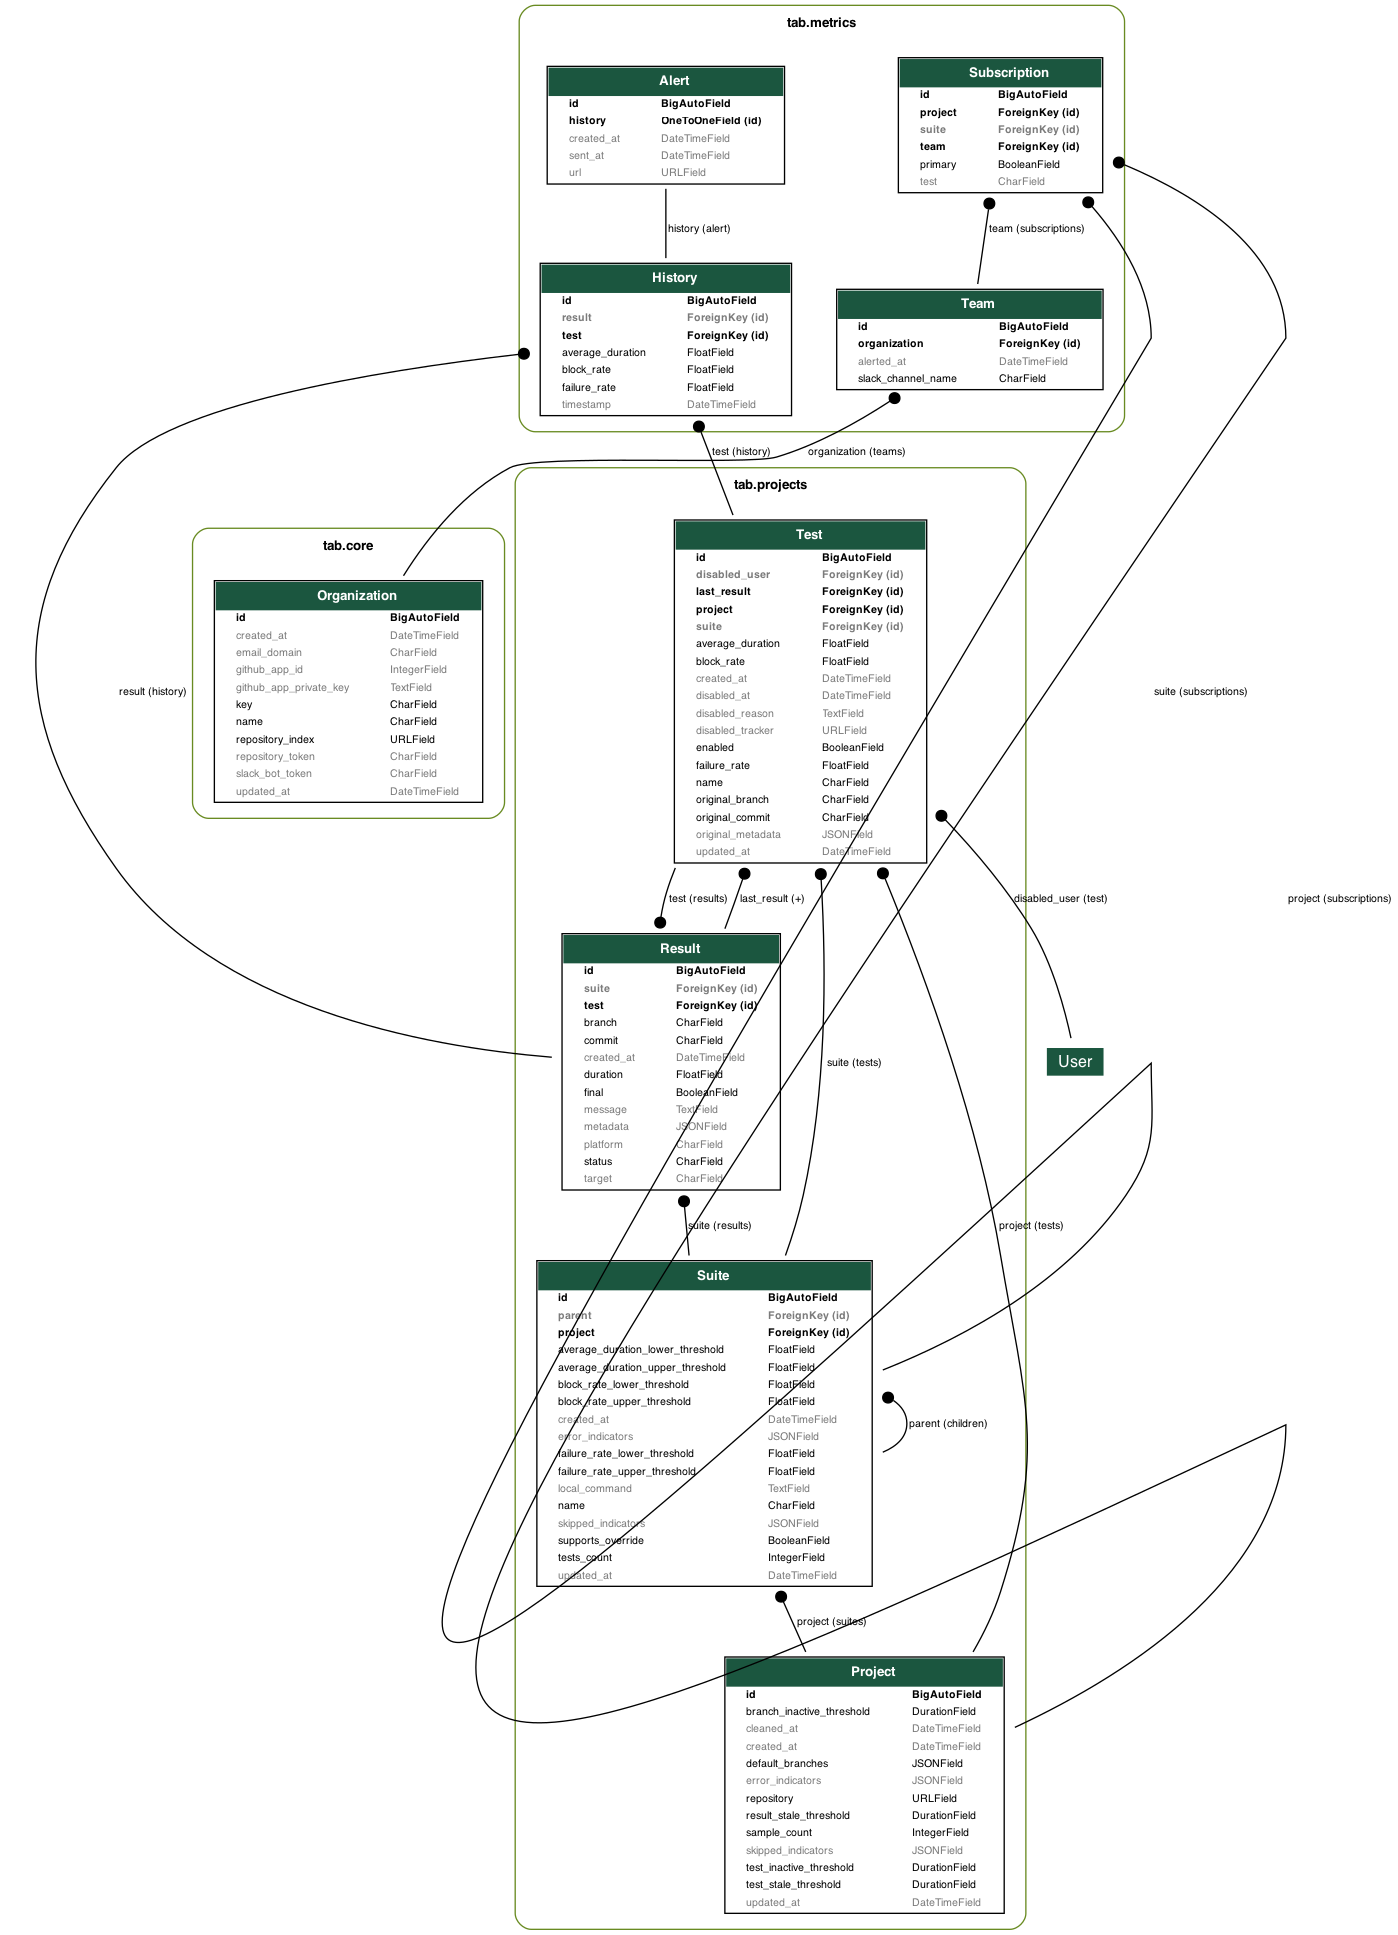
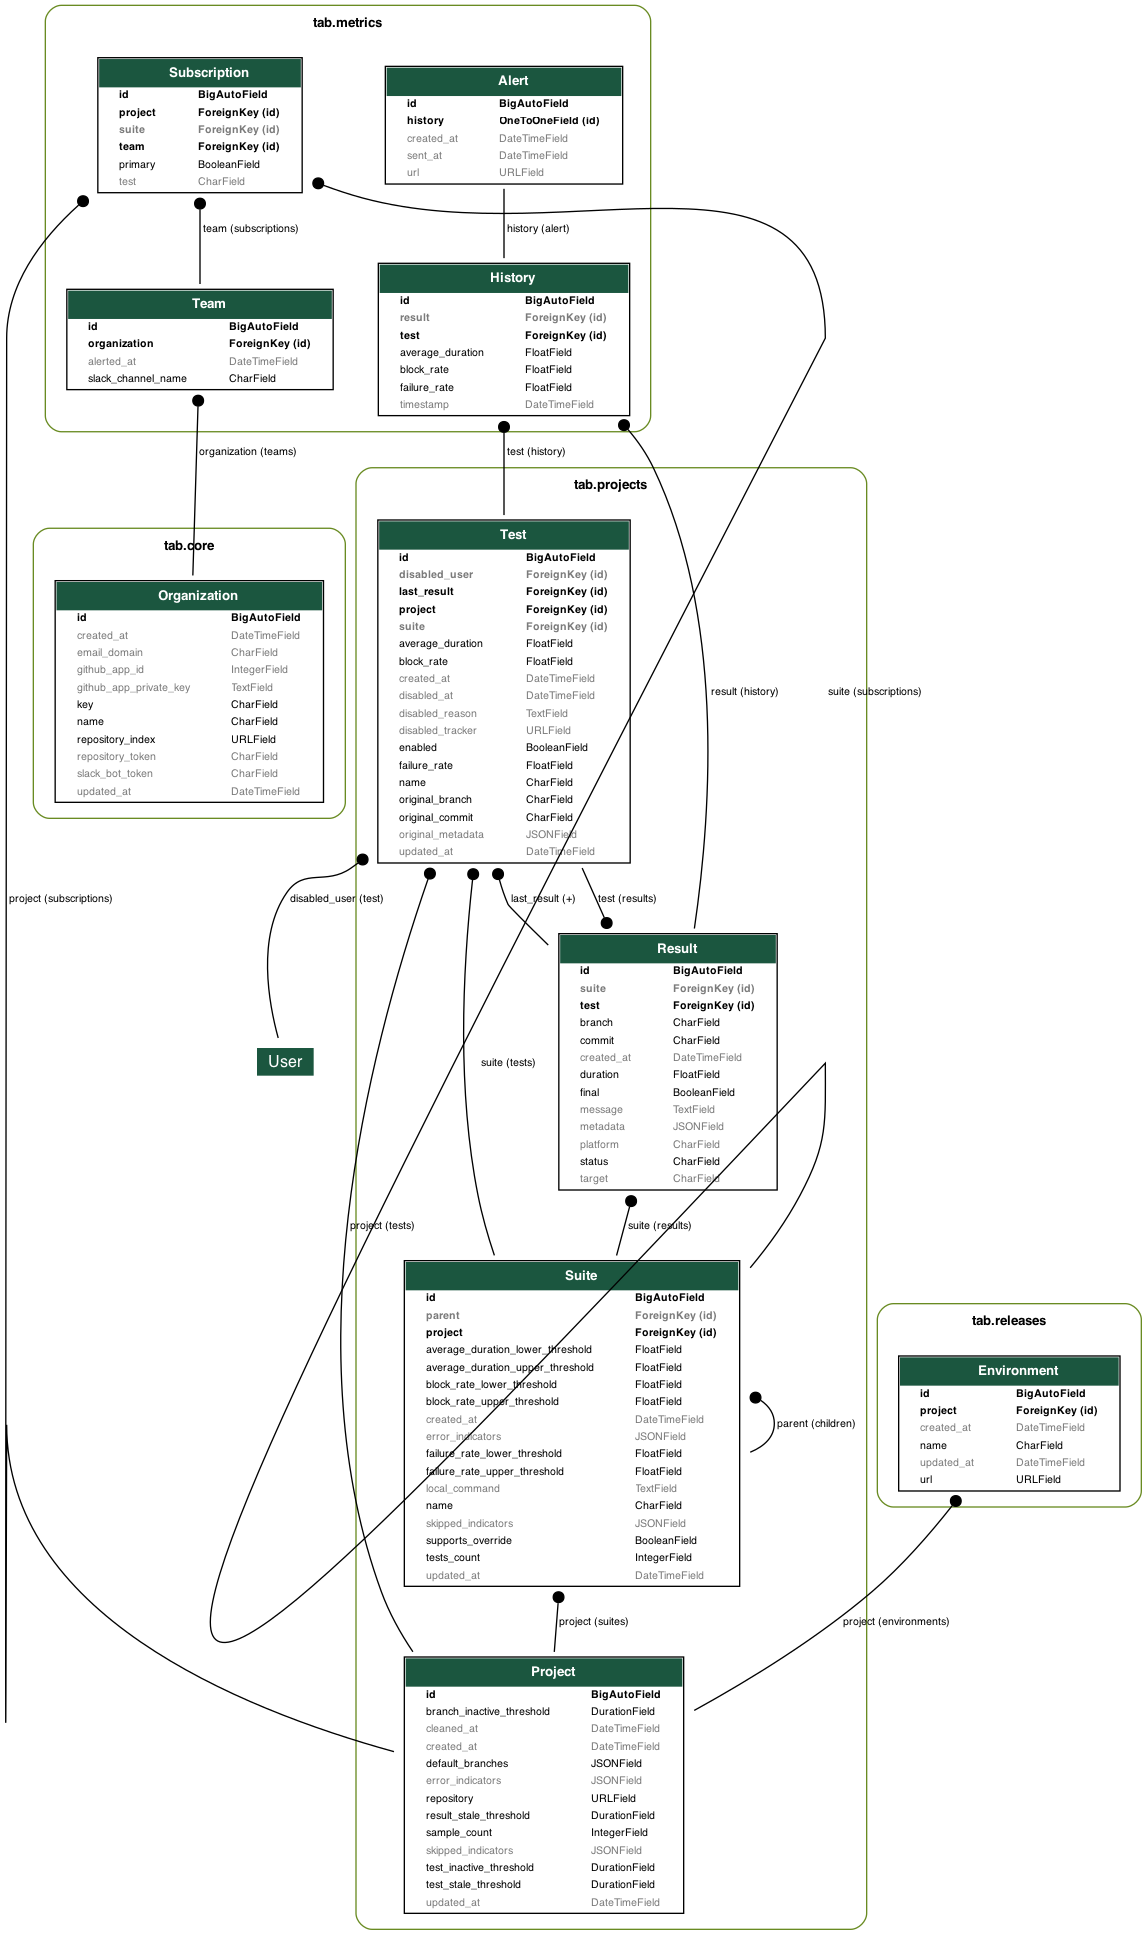
Create a new app to track releases (#168)

diff --git a/tab/releases/migrations/0001_initial.py b/tab/releases/migrations/0001_initial.py
@@ -1,0 +1,57 @@
+# Generated by Django 5.2.7 on 2025-10-03 15:55
+
+import django.db.models.deletion
+from django.db import migrations, models
+
+
+class Migration(migrations.Migration):
+
+    initial = True
+
+    dependencies = [
+        ("projects", "0057_rename_test_original_metadata"),
+    ]
+
+    operations = [
+        migrations.CreateModel(
+            name="Environment",
+            fields=[
+                (
+                    "id",
+                    models.BigAutoField(
+                        auto_created=True,
+                        primary_key=True,
+                        serialize=False,
+                        verbose_name="ID",
+                    ),
+                ),
+                ("url", models.URLField()),
+                (
+                    "name",
+                    models.CharField(
+                        choices=[
+                            ("local", "Local"),
+                            ("preview", "Preview"),
+                            ("staging", "Staging"),
+                            ("production", "Production"),
+                        ],
+                        max_length=100,
+                    ),
+                ),
+                ("created_at", models.DateTimeField(auto_now_add=True, db_index=True)),
+                ("updated_at", models.DateTimeField(auto_now=True, db_index=True)),
+                (
+                    "project",
+                    models.ForeignKey(
+                        on_delete=django.db.models.deletion.CASCADE,
+                        related_name="environments",
+                        to="projects.project",
+                    ),
+                ),
+            ],
+            options={
+                "ordering": ["-updated_at"],
+                "unique_together": {("project", "url")},
+            },
+        ),
+    ]

diff --git a/tab/releases/models.py b/tab/releases/models.py
@@ -1,0 +1,23 @@
+from django.db import models
+
+from tab.projects.models import Project
+
+from .enums import Type
+
+
+class Environment(models.Model):
+    project = models.ForeignKey(
+        Project, on_delete=models.CASCADE, related_name="environments"
+    )
+    url = models.URLField()
+    name = models.CharField(max_length=100, choices=Type.choices)
+
+    created_at = models.DateTimeField(auto_now_add=True, db_index=True)
+    updated_at = models.DateTimeField(auto_now=True, db_index=True)
+
+    class Meta:
+        ordering = ["-updated_at"]
+        unique_together = [["project", "url"]]
+
+    def __str__(self):
+        return f"{self.get_name_display()}: {self.url}"

diff --git a/tab/releases/admin.py b/tab/releases/admin.py
@@ -1,0 +1,23 @@
+from django.contrib import admin
+
+from .models import Environment
+
+
+@admin.register(Environment)
+class EnvironmentAdmin(admin.ModelAdmin):
+    def get_queryset(self, request):
+        return super().get_queryset(request).select_related("project")
+
+    search_fields = ("project__repository", "name", "url")
+    list_display = (
+        "id",
+        "project",
+        "url",
+        "name",
+        "created_at",
+        "updated_at",
+    )
+    list_filter = ("name", "created_at", "updated_at", "project__repository")
+
+    raw_id_fields = ("project",)
+    readonly_fields = ("created_at", "updated_at")

diff --git a/tab/metrics/tests/test_models.py b/tab/metrics/tests/test_models.py
@@ -3,7 +3,7 @@ import pytest
 from tab.core.models import Organization
 from tab.projects.models import Project, Suite, Test
 
-from .models import Alert, History, Subscription, Team
+from ..models import Alert, History, Subscription, Team
 
 
 def describe_alert():

diff --git a/tab/releases/enums.py b/tab/releases/enums.py
@@ -1,0 +1,8 @@
+from django.db import models
+
+
+class Type(models.TextChoices):
+    LOCAL = "local", "Local"
+    PREVIEW = "preview", "Preview"
+    STAGING = "staging", "Staging"
+    PRODUCTION = "production", "Production"

diff --git a/config/settings/default.py b/config/settings/default.py
@@ -30,6 +30,7 @@ INSTALLED_APPS = [
     "tab.core",
     "tab.projects",
     "tab.metrics",
+    "tab.releases",
 ]
 
 MIDDLEWARE = [
